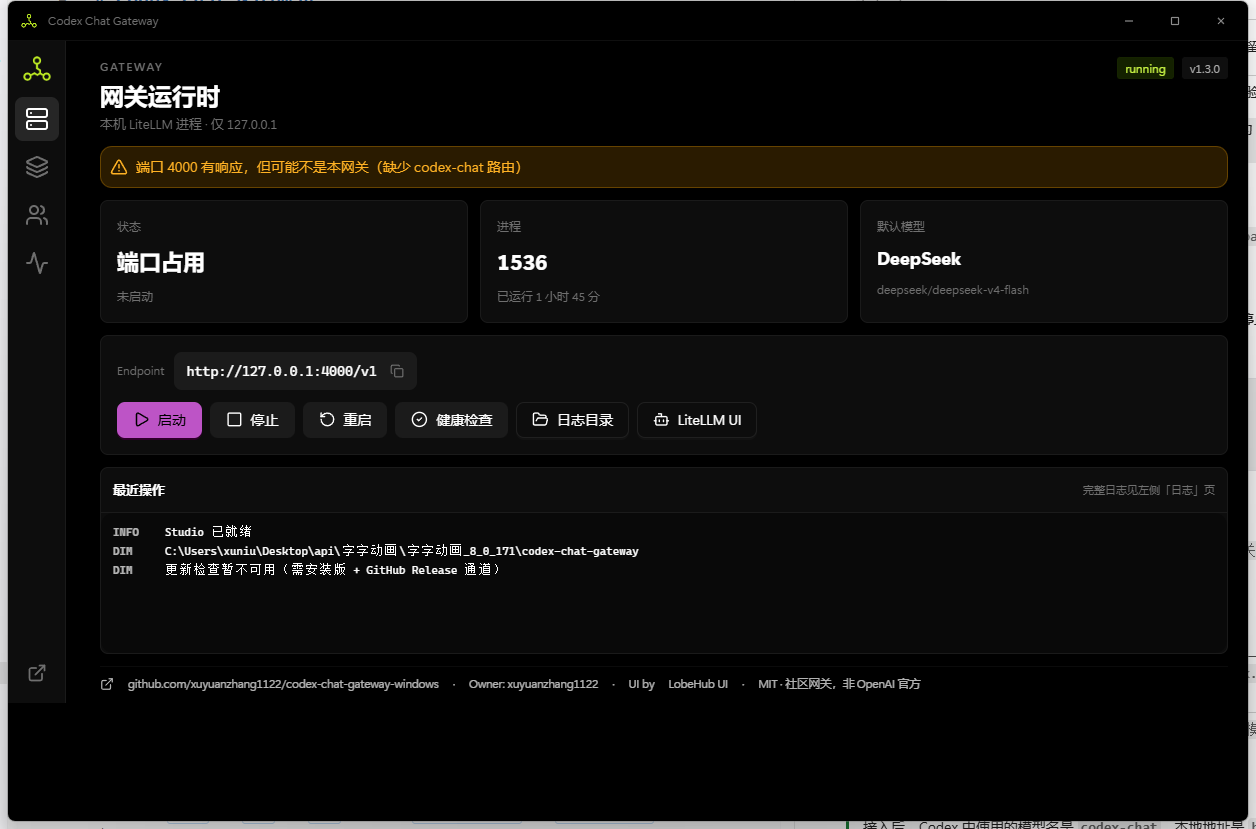
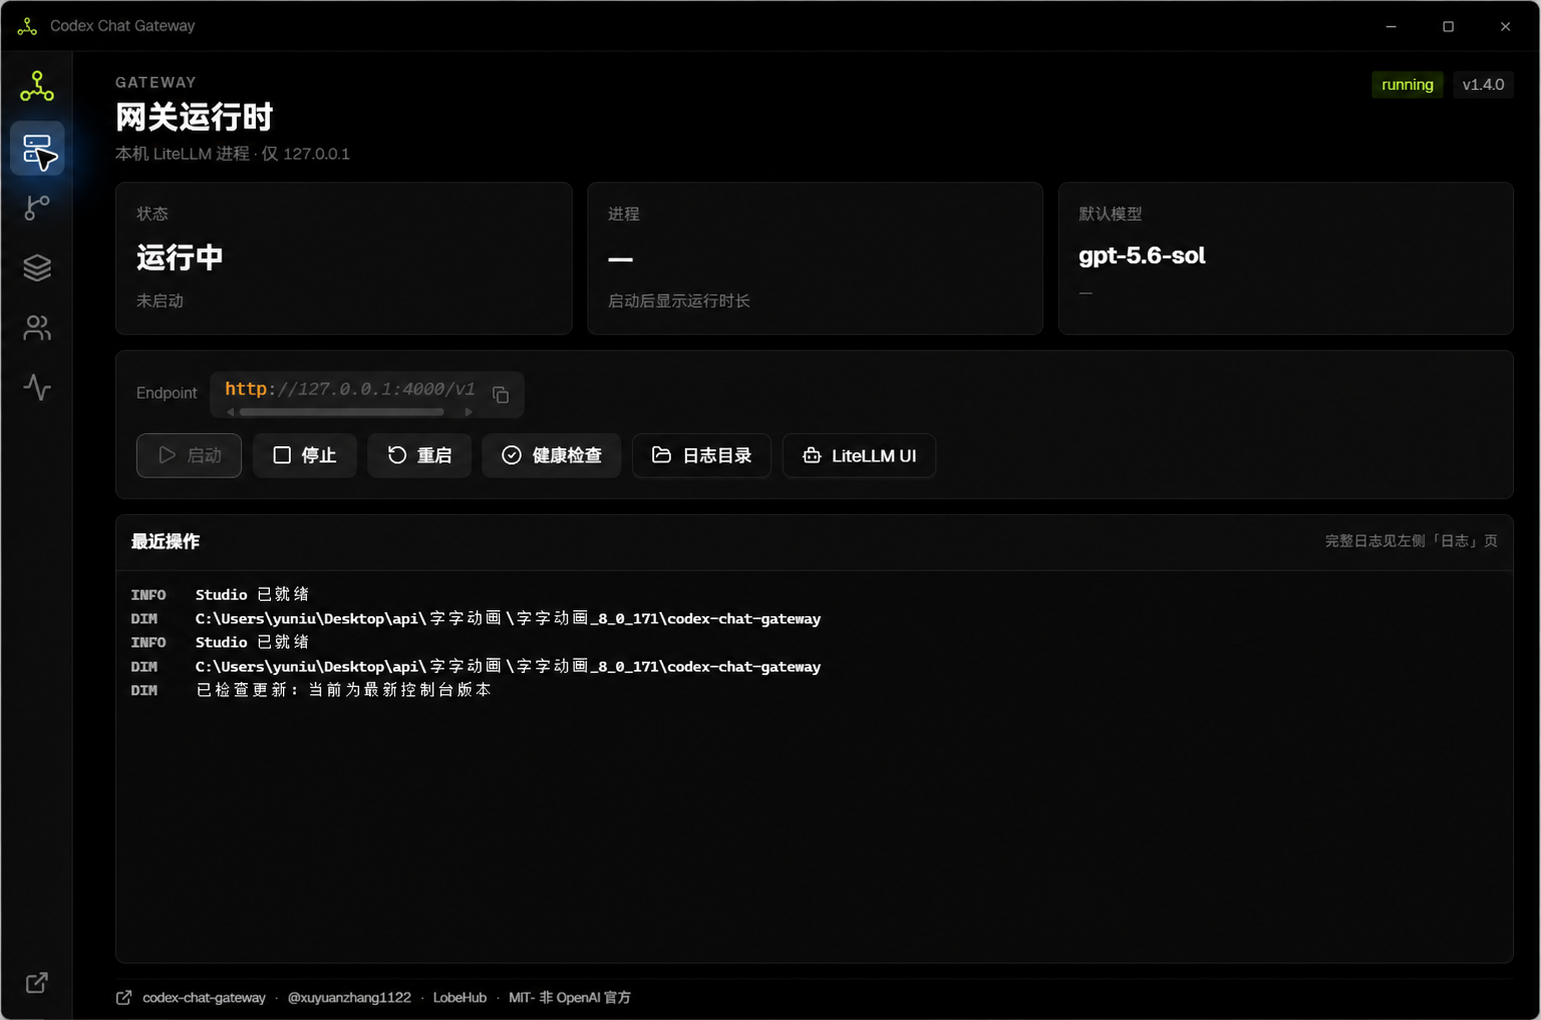
docs: refresh anonymized v1.4.0 screenshots

diff --git a/README.md b/README.md
@@ -33,6 +33,7 @@
 
 <p align="center">
   <img src="docs/assets/studio-gateway.png" width="920" alt="Studio console">
+  <br><sub>Gateway overview — start, stop, restart, health check, endpoint, and recent operations.</sub>
 </p>
 
 ## New in v1.4.0
@@ -40,6 +41,22 @@
 - **Route one model across several providers or accounts.** Enable routing per model, switch individual upstreams on or off, and keep a preferred default route.
 - **Cache-aware instead of randomly hopping.** Requests from the same session stay with the same upstream whenever possible, preserving that provider's prompt cache; cooldown and failover only move traffic when needed.
 - **See where requests actually went.** The Routing Preview page draws persistent animated model → upstream connections and aggregates hit count / last-used time without storing prompts, responses, API keys, or request IDs.
+
+### Model routing controls
+
+The Models page groups configurations by their real model ID. Turn routing on for one model, then independently include or exclude each upstream without deleting its credentials.
+
+<p align="center">
+  <img src="docs/assets/studio-model-routing-v1.4.0.png" width="920" alt="Per-model multi-account routing controls">
+</p>
+
+### Live Routing Preview
+
+Once a request uses a route, its animated connection stays on the map. This makes provider selection visible at a glance while only retaining privacy-safe aggregate metadata.
+
+<p align="center">
+  <img src="docs/assets/studio-routing-preview-v1.4.0.png" width="920" alt="Live model to upstream routing preview">
+</p>
 
 ## What is this
 

diff --git a/README.zh-CN.md b/README.zh-CN.md
@@ -33,6 +33,7 @@
 
 <p align="center">
   <img src="docs/assets/studio-gateway.png" width="920" alt="Studio 控制台">
+  <br><sub>网关总览：集中完成启动、停止、重启、健康检查、地址复制和最近操作查看。</sub>
 </p>
 
 ## v1.4.0 新功能
@@ -40,6 +41,22 @@
 - **同一模型接多家平台或多个账号。** 可以按模型单独开启分流、自由开关每条上游，并保留首选默认线路。
 - **缓存友好，不是每次请求硬切。** 同一会话会尽量固定在同一家上游，保住该平台的提示词缓存；只有线路故障或进入冷却时才自动切换。
 - **真实流量走向看得见。**「分流预览」会绘制常驻的模型 → 上游动态线路，累计命中次数和最近使用时间；不会保存提示词、响应正文、API Key 或请求 ID。
+
+### 模型分流管理
+
+「模型」页会按真实模型 ID 汇总配置。可以对某个模型单独开启分流，再分别决定哪些上游参与；关闭线路不需要删除密钥或配置。
+
+<p align="center">
+  <img src="docs/assets/studio-model-routing-v1.4.0.png" width="920" alt="按模型管理多账号分流">
+</p>
+
+### 实时分流预览
+
+请求实际经过某条线路后，带电流效果的连接会常驻在图中。模型选中了哪家平台一眼可见，同时只保留经过隐私收敛的聚合信息。
+
+<p align="center">
+  <img src="docs/assets/studio-routing-preview-v1.4.0.png" width="920" alt="模型到上游网站的实时分流预览">
+</p>
 
 ## 这是什么
 